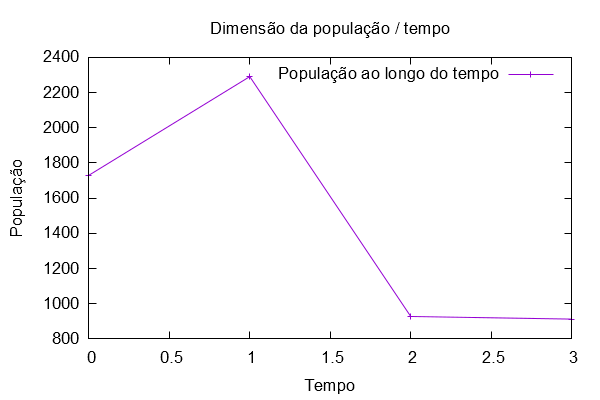
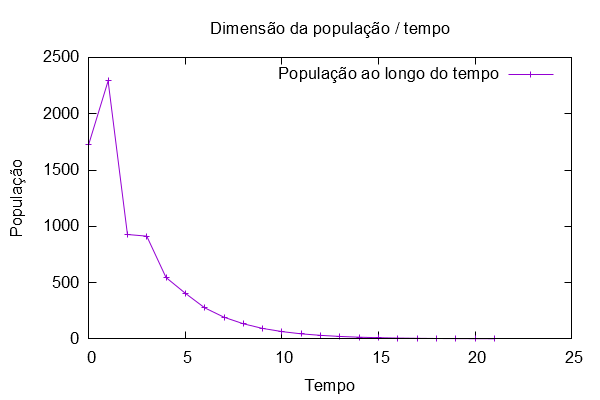
Atualizado no main

diff --git a/src/main.java b/src/main.java
@@ -122,15 +122,15 @@ public class main {
         double[] popVec = new double[leslieMatrix.length];
         double[] normalizedPopVec = new double[popVec.length];
 
-        double[][] distributionMatrix = new double[generationNum][leslieMatrix.length];
-        double[][] normDistMatrix = new double[generationNum][leslieMatrix.length];
+        double[][] distributionMatrix = new double[generationNum+1][leslieMatrix.length];
+        double[][] normDistMatrix = new double[generationNum+1][leslieMatrix.length];
 
-        double[] popDim = new double[generationNum];
-        double[] rateVariation = new double[generationNum];
+        double[] popDim = new double[generationNum+1];
+        double[] rateVariation = new double[generationNum+1];
 
         double dim, rate;
 
-        for(int time = 0; time < generationNum; time++) {
+        for(int time = 0; time <= generationNum; time++) {
 
             //POPULATION DISTRIBUTION
             fillPopulationDistribution(initialPopVec,popVec,distributionMatrix,leslieMatrix,time);
@@ -151,7 +151,7 @@ public class main {
 
         dimensionDataFormat(popDim, rateVariation);
 
-        for (int i = 0; i < generationNum; i++) {
+        for (int i = 0; i <= generationNum; i++) {
             printGenerationInfo(i,generationNum,distributionMatrix,normDistMatrix,popDim,rateVariation);
         }
 
@@ -313,7 +313,7 @@ public class main {
         System.out.println("Normalized Population Distribution:");
         printPopDistribution(normDistMatrix, time);
         System.out.println("Population Dimension: " + popDim[time]);
-        if(time != generationNum-1) {
+        if(time != generationNum) {
             System.out.println("Rate Variation between generation " + time + " and generation " + (time + 1) + ": " + rateVariation[time]);
         } else {
             System.out.println("For this generation, there is no Rate Variation.");
